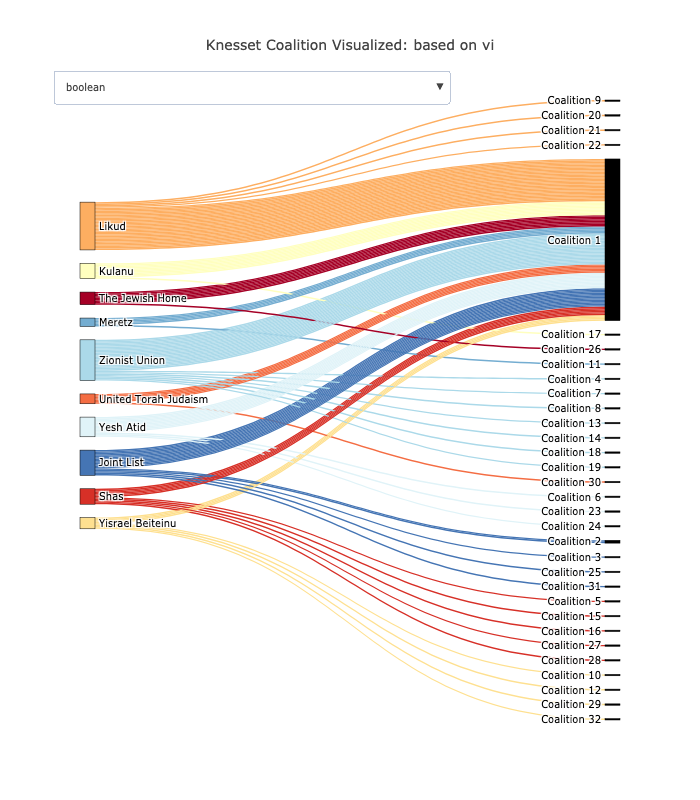
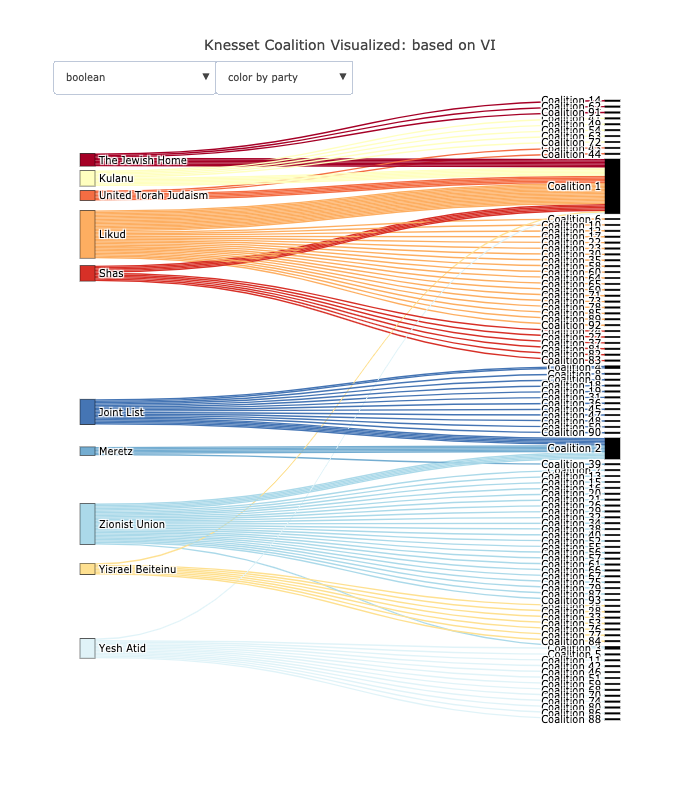
Errata: update analysis section with the new Boolean results

diff --git a/docs/index.js b/docs/index.js
@@ -67,8 +67,12 @@ function make_sankey_plot(exp_partitions, metric) {
         source: link_source,
         target: partition_link_target,
         value: link_value,
+        // use below for individual viz
+        // source: link_source.concat(partition_link_source),
+        // target: link_target.concat(partition_link_target),
+        // value: link_value.concat(partition_link_value),
         label: members,
-        color: colors,
+        color: colors.concat(colors),
         label: vote_counts.map((c,i) => members[i] + ' with ' + c +  ' effective votes')
       }
     }
@@ -95,6 +99,8 @@ function make_sankey_plot(exp_partitions, metric) {
     var layout = {
       title: title,
       height: 800,
+      // use below for individual viz
+      // height: 1800,
       font: {
         size: 10
       },
@@ -212,11 +218,11 @@ function make_line_plot(exp_partitions, method_name) {
 function make_bar_plot(exp_partitions, metric, max_y){
   // we want full control over the order of x
   const x = [
+    'value_function', 'pac_value_function',
     'friends', 'pac_friends',
     'friends_selective', 'pac_friends_selective',
-    // 'value_function', 'pac_value_function',
-    // 'enemies', 'pac_enemies',
-    // 'enemies_selective', 'pac_enemies_selective',
+    'enemies_selective', 'pac_enemies_selective',
+    'enemies', 'pac_enemies',
     'boolean', 'pac_boolean',
     'k_10_means', 'k_2_means',
     'sbm_discrete-geometric', 'sbm_real-normal'
@@ -224,9 +230,9 @@ function make_bar_plot(exp_partitions, metric, max_y){
   const colors = [
     d3.schemeCategory10[0], d3.schemeCategory10[1],
     d3.schemeCategory10[0], d3.schemeCategory10[1],
-    // d3.schemeCategory10[0], d3.schemeCategory10[1],
-    // d3.schemeCategory10[0], d3.schemeCategory10[1],
-    // d3.schemeCategory10[0], d3.schemeCategory10[1],
+    d3.schemeCategory10[0], d3.schemeCategory10[1],
+    d3.schemeCategory10[0], d3.schemeCategory10[1],
+    d3.schemeCategory10[0], d3.schemeCategory10[1],
     d3.schemeCategory10[0], d3.schemeCategory10[1],
     d3.schemeCategory10[2],
     d3.schemeCategory10[2],
@@ -235,11 +241,11 @@ function make_bar_plot(exp_partitions, metric, max_y){
   ]
 
   const x_labels = [
+    'Value Function', 'PAC Value Function',
     'Friends', 'PAC Friends',
     'Selective Friends', 'PAC Selective Friends',
-    // 'Value Function', 'PAC Value Function',
-    // 'Enemies', 'PAC Enemies',
-    // 'Selective Enemies', 'PAC Selective Enemies',
+    'Selective Enemies', 'PAC Selective Enemies',
+    'Enemies', 'PAC Enemies',
     'Boolean', 'PAC Boolean',
     'k-means (k=10)', 'k-means (k=2)',
     'SBM Geometric', 'SBM Normal'
@@ -256,7 +262,7 @@ function make_bar_plot(exp_partitions, metric, max_y){
   const data = {
     y: x_labels,
     x: y,
-    text: y.map(n => n.toFixed(3)),
+    text: y.map(n => n.toFixed(2)),
     textposition: "outside",
     type: 'bar',
     orientation: 'h',
@@ -271,7 +277,6 @@ function make_bar_plot(exp_partitions, metric, max_y){
     font: { size: 12 },
     xaxis: {
       automargin: true,
-      range: [0, 0.41],
     },
     yaxis: {
       automargin: true,
@@ -293,13 +298,13 @@ function create_sankey_and_bar_el(metric) {
 }
 
 Plotly.d3.json("partition_reps_ami.json", exp_partitions => {
-  // var metric = 'vi'
-  // create_sankey_and_bar_el(metric)
-  // make_sankey_plot(exp_partitions, metric)
-  // make_bar_plot(exp_partitions, metric)
-
-  var metric = 'ami'
+  var metric = 'vi'
   create_sankey_and_bar_el(metric)
   make_sankey_plot(exp_partitions, metric)
   make_bar_plot(exp_partitions, metric)
+
+  // var metric = 'ami'
+  // create_sankey_and_bar_el(metric)
+  // make_sankey_plot(exp_partitions, metric)
+  // make_bar_plot(exp_partitions, metric)
 })

diff --git a/nusthesis/chapters/ch-analysis.tex b/nusthesis/chapters/ch-analysis.tex
@@ -28,16 +28,17 @@ Recall that, by design, we repeat the experiment 50 times for each PAC model
 in order to evaluate the robustness of the outputs (\autoref{sec:experiment_design}).
 In this section we conduct the evaluation by assessing how much do these 50
 partitions differ.
-If they are vastly different, this serves as evidence that there is issue in the
-PAC algorithm that produces these partitions; if they are relatively consistent,
-we can then proceed to aggregate each set of 50 partition results for every PAC
-model.
+If they are relatively consistent, the aggregated partition can then represent
+its corresponding 50 runs confidently; otherwise, it is evidence that the model
+outputs are not very robust and the aggregated partition is of limited
+representativeness of the model.
 
 \autoref{Analysis:table:pac_num_coalitions} presents the mean and standard
 deviation of the number of coalitions across 50 runs for every PAC model.
-The coefficient of variation (CV) is the ratio of the standard deviation to the mean; lower values generally indicate low variation across samples.
-Note that all the PAC models have CV values well below 1, so there is very low
-variation in terms of partition size across 50 runs for every PAC model.
+The coefficient of variation (CV) is the ratio of the standard deviation to
+the mean; lower values generally indicate low variation across samples.
+Note that all the PAC models have CV values well below 1, so there is relatively
+low variation in terms of partition size across 50 runs for every PAC model.
 
 \begin{table}[ht]
 \centering
@@ -49,7 +50,7 @@ General Friends & 13 & 1.29 & 0.10  \\
 Selective Friends & 20 & 1.83 & 0.09  \\
 Selective Enemies & 10 & 0 & 0 \\
 General Enemies & 34 & 0.84 & 0.02 \\
-Boolean & 31 & 0.46 & 0.02  \\
+Boolean & 85 & 16.92 & 0.2  \\
 \hline
 \end{tabular}
 \caption{PAC model partition size statistics across 50 runs per model}
@@ -61,9 +62,16 @@ partitions are and is very sensitive in detecting very different partitions
 (\autoref{subsec:information_theoretic_measures}).
 We calculate the pairwise AMIs among the 50 partitions for each PAC model;
 the resulting statistics are presented in \autoref{Analysis:table:pac_pairwise_amis}.
-We observe even the smallest pairwise AMI for every PAC model $>> 0$ and all CVs
-$<< 1$, from which we can conclude that, beyond partition size, partitions
-generated by our methods are relatively similar across different random samples.
+We observe that with the exception of Boolean model, even the smallest pairwise
+AMI for every other PAC model $>> 0$ and all CVs $<< 1$, from which we can
+conclude that, beyond partition size, partitions generated by our methods are
+relatively similar across different random samples for those PAC models.
+This consistency, however, is not observed in the Boolean PAC model: its low AMI
+and high CV values indicate that partitions generated by each set of samples are
+very different from each other.
+This is evidence that the median sized satisfactory coalitions vary widely from
+one set of samples to another.
+As a result, the aggregated partition representing the PAC Boolean model is not robust.
 
 \begin{table}[ht]
 \centering
@@ -75,15 +83,14 @@ General Friends & 0.6 & 0.78 & 0.09  \\
 Selective Friends & 0.66 & 0.84 & 0.08  \\
 Selective Enemies & 0.97 & 0.99 & 0.01 \\
 General Enemies & 0.93 & 0.97 & 0.01 \\
-Boolean & 0.83 & 0.93 & 0.06  \\
+Boolean & -0.06 & 0.18 & 0.86  \\
 \hline
 \end{tabular}
 \caption{PAC Model Partition Pairwise AMI Statistics over 50 Runs per Model}
 \label{Analysis:table:pac_pairwise_amis}
 \end{table}
 
-Having established low variation within every set of 50
-PAC partitions, as described in \autoref{sec:experiment_design}, we select
+As described in \autoref{sec:experiment_design}, we select
 the ``centroid'' of each set as the representative of its corresponding PAC model.
 Since all the partitions are reasonably close to each other, it does not
 matter either we use AMI or VI for selecting the centroid.
@@ -161,7 +168,7 @@ The results are visualized in \autoref{Analysis:fig:ami}.
 
 \begin{figure}[ht]
   \centering
-  \includegraphics[width=\linewidth]{\Pic{png}{ami}}
+  \includegraphics[width=\linewidth]{\Pic{jpeg}{ami}}
   \caption{Adjusted Mutual Information (AMI) between model partition and party affiliations}
   \label{Analysis:fig:ami}
 \end{figure}
@@ -199,34 +206,30 @@ the definition of friends.
 
 \paragraph{Second Worst Performing Model Under AMI} 
 The second worst partition, according to AMI with the party affiliation
-partition, is the full-information Boolean model ($\AMI_{\text{Boolean}} = 0.018$).
-Upon closer inspection of the partition produced by the full-information Boolean
-model compared to party affiliations (See \autoref{fig:boolean_partition}),
-we notice that the Boolean game partition contains one large coalition made of 115
-players of various parties from both sides of the aisle (Coalition 1),
-and one two-member coalition made of two players from the Joint List (Coalition 2);
-all other coalitions are singletons.
+partition, is the full-information Boolean model ($\AMI_{\text{Boolean}} = 0.077$).
+The partition contains only two non-trivial coalitions: a governmental coalition
+of 39 players (Coalition 1), and a opposition coalition of 15 players (Coalition 2);
+all other coalitions are singletons (See \autoref{fig:boolean_partition}).
 This is a result of a combination of the preference model and the core finding
 algorithm for Boolean hedonic games:
-Since the algorithm looks for the largest coalition in which everyone is
-satisfied, the largest bill with cross-party support/disapproval forms the
-largest coalition.
-Once this largest coalition is formed, we remove any preference with players
-in this coalition, effectively removing most satisfactory coalitions for
-remaining players.
-Since a player is indifferent among unsatisfactory coalitions, we default to
-placing them in coalitions containing themselves, resulting in most remaining
-players in singleton coalitions.
+Once a satisfying coalition $S$ is formed, we remove any other approved
+coalitions that intersect with $S$; this effectively removes many satisfactory
+coalitions for the remaining players.
+If many players are left without satisfactory coalitions, they will be
+``stranded'' in singleton coalitions, as observed.
 
-Notably under the PAC setting, the effect of this bill with large cross-party
-support/disapproval is significantly reduced due to sampling.
-This is because our PAC Boolean algorithm, in the first iteration before removing
-any player, samples $\frac{3}{4} \times 7489 = 5617$ bills $|N|=147$ times, and
-takes the intersection of every set of satisfactory coalitions for each player.
-It means this particular cross-party bill survives with probability
-$(1 - (\frac{7488}{7489})^{5617})^{147}$, which is minute.
-As such, we do not see this cross-party coalition appear in the PAC Boolean
-partition in \autoref{fig:boolean_pac_partition}.
+The PAC variant of the Boolean model produces a similar result with two non-trivial
+coalitions: a 49 member governmental coalition (Coalition 1), and a 39 member
+opposition coalition (Coalition 2) which includes Orly Levy (Yisrael Beiteinu),
+a member of the coalition government \autoref{fig:boolean_pac_partition_detailed}.
+The PAC version of Boolean model has a slightly higher AMI value
+($\AMI_{\text{PAC Boolean}} = 0.194$), but recall our discussion in
+\autoref{sec:variability_among_pac_partitions} where we concluded that the
+aggregated partition result for PAC Boolean model is of limited representativeness
+due to high variability.
+The overall poor performance of the Boolean models suggests the structure of
+Boolean games may be poorly suited to modeling Knesset members' real, underlying
+preferences.
 
 \paragraph{Third Worst Performing Model Under AMI}
 The third worst partition, which is also the worst PAC partition
@@ -293,7 +296,7 @@ have contributed to the poor clustering results.
 
 \begin{figure}[ht]
   \centering
-  \includegraphics[width=\linewidth]{\Pic{png}{vi}}
+  \includegraphics[width=\linewidth]{\Pic{jpeg}{vi}}
   \caption{Variation of Information (VI) between model partition and party affiliations}
   \label{Analysis:fig:vi}
 \end{figure}
@@ -327,9 +330,9 @@ and the SBM geometric for the community models.
 \begin{tabular}{|c|c|c|c|}
 \hline
        & AMI Ranking & VI Ranking \\ \hline
-General Friends & Worst & 8th Worst \\
+General Friends & Worst & 9th Worst \\
 Boolean & 2nd Worst & 2nd Worst \\
-Value Function (PAC) & 3rd Worst & 5th Worst \\
+Value Function (PAC) & 3rd Worst & 6th Worst \\
 SBM Normal & 4th Worst & Worst \\
 \hline
 \end{tabular}
@@ -397,7 +400,8 @@ The community based SBM geometric model and $k$-means ($k=10$) model, however,
 did not really pick up on the existence of the relatively coherent group of
 government and opposition Knesset members.
 
-Most other groups were created based on attendance, with the PAC models more
+Most other groups were created based on attendance, with the selective friends
+and selective enemies PAC models more
 clearly creating a few singleton coalitions for less present members, while
 clustering ministers, who tend to miss votes, together.
 Ministers are clustered in two different coalitions by PAC selective friends:
@@ -405,27 +409,22 @@ Coalition 3 and Coalition 4
 (See \autoref{fig:selective_friends_pac_partition_detailed}), and are clustered
 altogether in Coalition 4 by PAC selective enemies model (See
 \autoref{fig:selective_enemies_pac_partition_detailed}).
-PAC Boolean model notably creates singletons for most low attendance members
-(\autoref{fig:boolean_pac_partition_vote_count}).
 Both the $k$-means ($k=10$) and the SBM geometric clusters tended to remove
 more ministers from the overall main government group, and divide them into
-more separate coalitions (See \autoref{fig:k_means_10_partition_detailed} and 
+more separate coalitions (See \autoref{fig:k_means_10_partition_detailed} and
 \autoref{fig:sbm_geometric_partition_detailed}).
+Different from the other models, PAC Boolean model produces a large number of
+singleton coalitions from which we do not observe the effect of attendence
+(\autoref{fig:boolean_pac_partition_vote_count}).
 
-% \paragraph{Party Sub-groups}
-% None of the models were able to distinguish between the subgroups within
-% parties, apart from identifying a significant change (e.g., a member switches
-% parties).
-% We believe this is more of an indication of the process of ideological
-% coherence happening in Israeli parties.
-% Parties that have been sharing similar ideologies have recently joined together to run as a single ticket do not have many opportunities to flaunt their differences.
-% Thus, even for a party, such as the Joint List, that did not run together in
-% the following election, it does not seem that their Knesset members voted
-% differently.
-% Indeed, several of their Knesset members, despite being from different parties
-% (and running separately in the following election) have not been assigned to
-% different coalitions by any model.
-% As noted above, we believe this tells us a meaningful statement on the real,
-% day to day, ideological difference between them, and is not a failure of the
-% algorithms.
-
+\paragraph{Party Sub-groups}
+ Our models were not able to distinguish between the subgroups within parties,
+ apart from identifying a significant change (e.g., a member switches parties).
+ We believe this is an indication of the process of ideological coherence
+ happening in Israeli parties~\cite{Kal19}.
+ This is a meaningful statement on the real, day to day, ideological difference
+ between them, rather than reflecting a failure of the algorithms.
+ In other words, our results reflect a greater underlying ideological process
+ in the Knesset, and indeed, Israeli society: political views polarize on
+ matters of national security/the Israeli-Palestinian conflict, with more 
+ nuanced/sectarian party ideology gradually being set aside.
